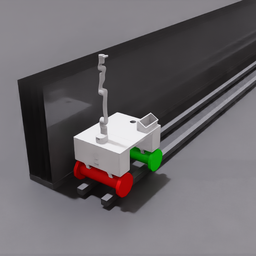
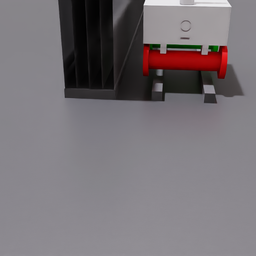
last commit before going back to previous commit that had path in line with robot

diff --git a/humble_ws/src/antworker_navigation/antworker_navigation/send_goal_pose.py b/humble_ws/src/antworker_navigation/antworker_navigation/send_goal_pose.py
@@ -19,10 +19,10 @@ class GoalPoseServer(Node):
 
         self.pose_stamped.header.frame_id = 'map'
         self.pose_stamped.header.stamp = self.get_clock().now().to_msg()
-        self.pose_stamped.pose.position.y = -20.0 # Assumes robot starts at (0,0,0), (0,0,0)
+        self.pose_stamped.pose.position.y = -2.0 # Assumes robot starts at (0,0,0), (0,0,0)
 
-        self.pose_stamped.pose.orientation.z = -0.73
-        self.pose_stamped.pose.orientation.w = 0.67
+        self.pose_stamped.pose.orientation.z = -0.7071068
+        self.pose_stamped.pose.orientation.w = 0.7071068
 
         self.publisher.publish(self.pose_stamped)
         print("Pose published")
